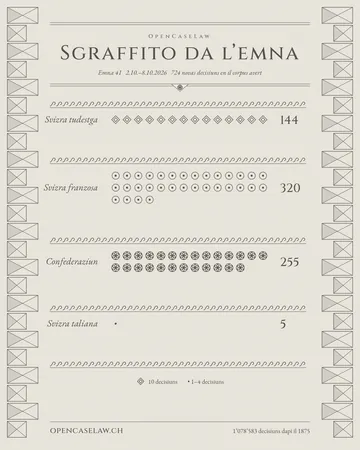
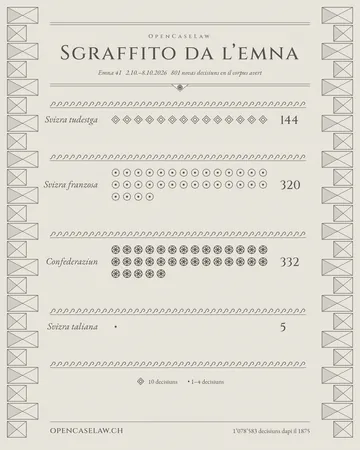
posters: week 41 counts the Federal Supreme Court from the database
Its snapshot count dips and recovers within a week, so the running-peak
rule credited 98 of the 175 rulings first scraped between 2 and 8 October
(decided July to September 2026; 33 Luzern, 142 Lausanne). set_court_counts
replaces a court's weekly figure by a read-only database count;
weekly_poster_editions --bger-scraped LU=n,VD=n applies it. Week 41: 801.
The Italian mosaic's note no longer runs into the footer.

diff --git a/scripts/weekly_poster.py b/scripts/weekly_poster.py
@@ -368,6 +368,28 @@ def usual_week(delta: dict, ref: str = "origin/main", weeks: int = 8) -> dict:
             "added": statistics.median(w["added"] for w in past), "weeks": weeks}
 
 
+def set_court_counts(delta: dict, counts: dict[str, int], canton: str = FEDERAL) -> None:
+    """Replace the week's figures for some courts by counts taken directly from the database.
+
+    Used for the Federal Supreme Court, whose snapshot count dips and recovers within a week so the
+    running-peak rule undercounts it: `counts` are its rows first scraped in the window, by seat
+    ({"bger@LU": n, "bger@VD": n}). Every other court keeps the snapshot rule.
+    """
+    base = {c.split("@")[0] for c in counts}
+    for key in [k for k in delta["by_key"] if k[1] == canton and k[0].split("@")[0] in base]:
+        del delta["by_key"][key]
+    for court, n in counts.items():
+        if n:
+            delta["by_key"][(court, canton)] = n
+    by_court, by_canton = {}, {}
+    for (court, cn), n in delta["by_key"].items():
+        by_court[court] = by_court.get(court, 0) + n
+        by_canton[cn] = by_canton.get(cn, 0) + n
+    delta["by_court"], delta["by_canton"] = by_court, by_canton
+    delta["added"] = sum(delta["by_key"].values())
+    delta["federal_split"] = delta["federal_split"] or any("@" in c for c in counts)
+
+
 def apply_seats(delta: dict, seats: dict[str, int]) -> None:
     """Replace the week's bger row by bger@LU / bger@VD in the proportion of `seats` (see load_week)."""
     key = ("bger", FEDERAL)

diff --git a/scripts/weekly_poster_editions.py b/scripts/weekly_poster_editions.py
@@ -648,6 +648,8 @@ def main(argv: list[str] | None = None) -> int:
     ap.add_argument("--ref", default="origin/main", help="git ref carrying the nightly stats.json commits")
     ap.add_argument("--seats", help="LU=n,VD=n: split the Federal Supreme Court in this proportion when the "
                     "week's snapshots predate federal_seats (counts of the week's new rows by docket prefix)")
+    ap.add_argument("--bger-scraped", help="LU=n,VD=n: the Federal Supreme Court's rows first scraped in the window "
+                    "(read-only database count); replaces its snapshot figure, which dips and recovers within a week")
     ap.add_argument("--archive", action="store_true",
                     help="also publish into docs/posters/ (WebP + index.json); refuses to run on fallback fonts")
     args = ap.parse_args(argv)
@@ -656,6 +658,8 @@ def main(argv: list[str] | None = None) -> int:
 
     seats = dict((k, int(v)) for k, v in (p.split("=") for p in args.seats.split(","))) if args.seats else None
     delta, cur = wp.load_week(args.ref, args.end, seats)
+    if args.bger_scraped:  # Federal Supreme Court: rows first scraped in the window, counted in the database
+        wp.set_court_counts(delta, {f"bger@{k}": int(v) for k, v in (p.split("=") for p in args.bger_scraped.split(","))})
     iso = delta["to"].isocalendar()
     out = wp.REPO / "output" / "posters"
     out.mkdir(parents=True, exist_ok=True)

diff --git a/scripts/weekly_poster_designs.py b/scripts/weekly_poster_designs.py
@@ -555,9 +555,9 @@ h1 i{display:block;font-size:52px;margin:4px 0 0 6px;color:#e3bd4f}
 .gl{font-family:'Bodoni Moda',serif;font-style:italic;font-size:22px;fill:#fff8e8}
 .gl.s{font-size:16px;fill:#d9d1bf}
 .gn{font-style:normal;font-weight:500}
-.lg{position:absolute;left:46px;right:46px;top:1184px;display:flex;justify-content:space-between;font-size:21px}
+.lg{position:absolute;left:46px;right:46px;top:1150px;display:flex;justify-content:space-between;font-size:21px}
 .lg i{display:inline-block;width:17px;height:17px;border-radius:3px;margin-right:9px;vertical-align:-2px}
-.key{position:absolute;left:46px;right:46px;top:1222px;font-size:17px;font-style:italic;color:#bfb7a3}
+.key{position:absolute;left:46px;right:46px;top:1190px;font-size:16px;line-height:1.3;font-style:italic;color:#bfb7a3}
 .ft{position:absolute;left:46px;right:46px;bottom:28px;display:flex;justify-content:space-between;align-items:baseline;font-size:19px;color:#cfc6b1;border-top:1px solid #39456a;padding-top:12px}
 .ft b{font-size:32px;font-weight:500;color:#f1ead9}"""
     return page("family=Bodoni+Moda:ital,opsz,wght@0,6..96,400;0,6..96,500;1,6..96,400;1,6..96,500", css, body, lang)

diff --git a/tests/test_weekly_poster.py b/tests/test_weekly_poster.py
@@ -223,3 +223,12 @@ def test_only_what_the_catch_all_lost_is_taken_off():
 def test_a_dedupe_elsewhere_is_not_mistaken_for_re_filing():
     d = wp.weekly_delta([BASE, CUR])
     assert d["refiled"] == {} and d["by_canton"] == {"CH": 31, "ZH": 7, "VD": 4}
+
+
+def test_federal_supreme_court_can_take_its_counts_from_the_database():
+    d = wp.weekly_delta([BASE, CUR])
+    before_other = d["added"] - d["by_court"]["bger"]
+    wp.set_court_counts(d, {"bger@LU": 33, "bger@VD": 142})
+    assert "bger" not in d["by_court"] and d["by_court"]["bger@VD"] == 142
+    assert d["added"] == before_other + 175 and d["by_canton"]["CH"] == 175 + 1  # ecthr_chamber CH +1
+    assert d["federal_split"]
